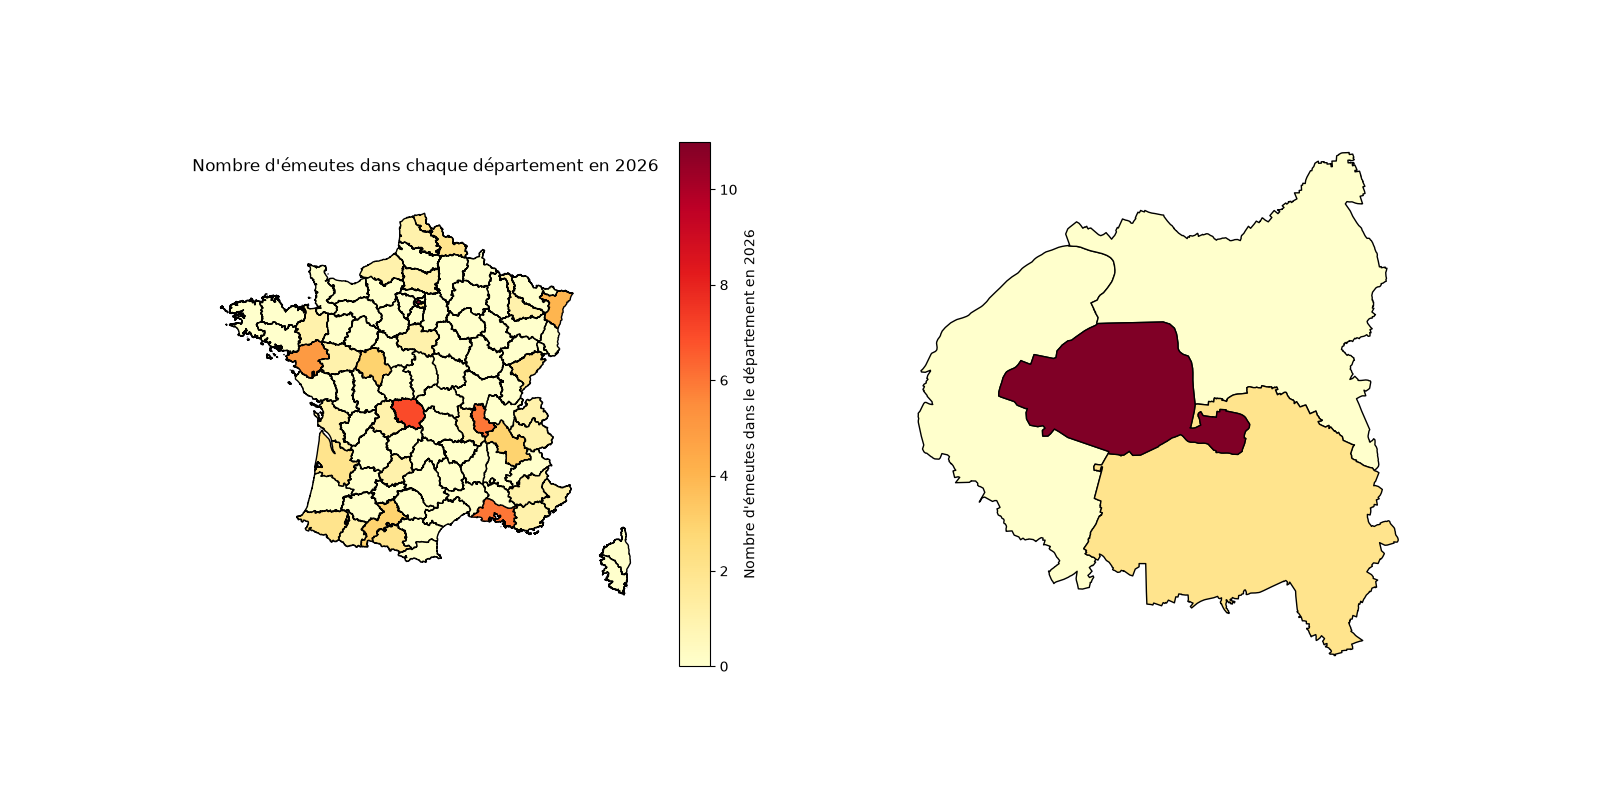
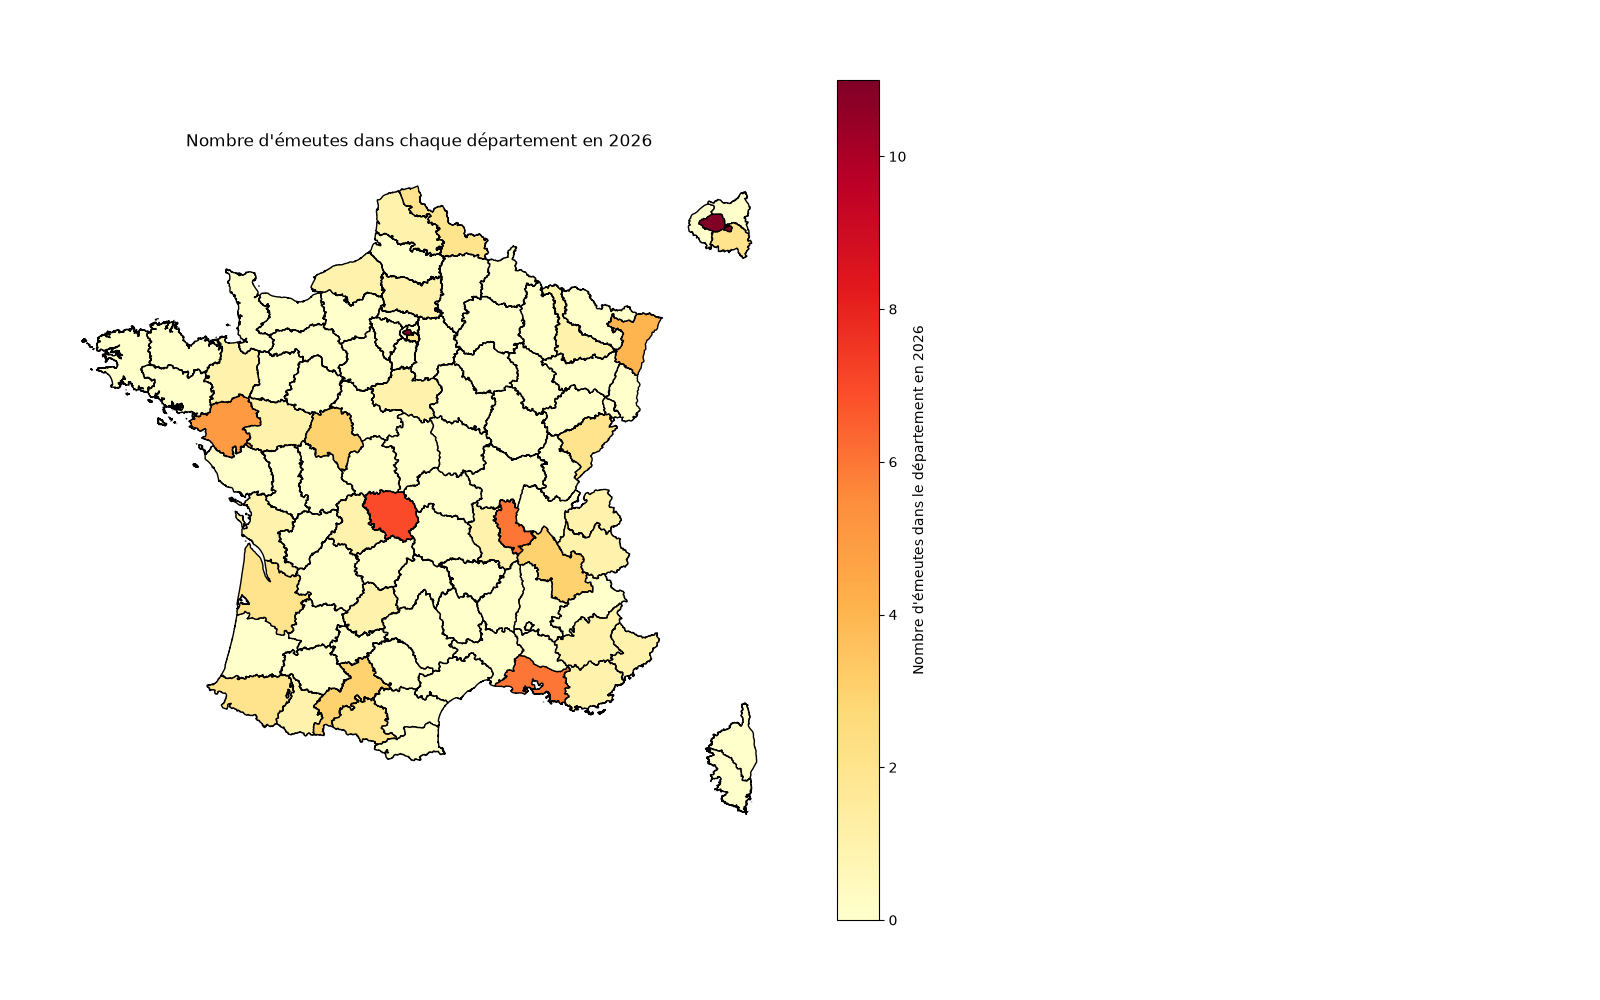
Changements pour des cartes plus jolies

Changed region(s): [[0.0625, 0.0625, 0.875, 0.9375], [0.125, 0.125, 0.4062, 0.1562]]

diff --git a/QPV_data/Départements/carte_QPV_départements.py b/QPV_data/Départements/carte_QPV_départements.py
@@ -6,7 +6,7 @@ import geopandas as gpd
 
 ## Importation des données
 
-data = pd.read_csv("/home/onyxia/Projet_Python_2A/QPV_data/Départements/Nb_QPV départements.csv", sep=";", skiprows=2, dtype={"Code" : str})
+data = pd.read_csv("/home/onyxia/Projet_Python_2A/QPV_data/Départements/part_population_QPV_département.csv", sep=";", skiprows=2, dtype={"Code" : str})
 
 ## Nettoyage des données
 
@@ -23,14 +23,30 @@ url_fond_de_carte = ("https://minio.lab.sspcloud.fr/projet-cartiflette/productio
 départements = gpd.read_file(url_fond_de_carte)
 
 départements = départements[~départements["INSEE_DEP"].str.startswith("97")]
-départements.to_crs(2154)
+départements = départements.to_crs(2154)
 
 carte = départements.merge(data, left_on="INSEE_DEP", right_on="Code", how="left")
 
-variable = "Quartiers prioritaires de la politique de la ville 2024 : Nombre de QPV sur le territoire"
+petite_couronne = carte[carte["INSEE_DEP"].isin(["75", "92", "93", "94"])]
 
-graphe = carte.plot(column=variable, cmap="YlOrRd", edgecolor="white", legend=True, legend_kwds={"label": "Nombre de QPV"})
+variable = "QPV - Quartiers prioritaires de la politique de la ville 2024 : Part de la population municipale résidant en QPV"
+
+fig = plt.figure(figsize=(16,10))
+
+ax1 = fig.add_axes([0.03, 0.08, 0.58, 0.84])
+ax2 = fig.add_axes([0.35, 0.65, 0.20, 0.25])
+
+xmin, ymin, xmax, ymax = petite_couronne.total_bounds
+ax2.set_xlim(xmin-50000, xmax+50000)
+ax2.set_ylim(ymin-50000, ymax+50000)
+
+vmin = carte[variable].min()
+vmax = carte[variable].max()
+
+graphe = carte.plot(column=variable, ax=ax1, cmap="YlOrRd", vmin=vmin, vmax=vmax, edgecolor="black", legend=True, legend_kwds={"label": "Part de la population vivant en QPV (en %)"})
+petite_couronne.plot(column=variable, ax=ax2, cmap="YlOrRd", vmin=vmin, vmax=vmax, edgecolor="black")
 graphe.set_axis_off()
-graphe.set_title("Nombre de QPV dans chaque département en 2024")
+graphe.set_title("Part de la population vivant en QPV dans chaque département en 2024")
+ax2.set_axis_off()
 plt.savefig("Carte_QPV_départements.png")
 plt.show()

diff --git a/QPV_data/Régions/carte_QPV_régions.py b/QPV_data/Régions/carte_QPV_régions.py
@@ -8,7 +8,7 @@ np.random.seed(123)
 
 ## Importation des données
 
-data = pd.read_csv("/home/onyxia/Projet_Python_2A/QPV_data/Régions/Nb_QPV_régions.csv", sep=";", skiprows=2, dtype = {"Code" : str})
+data = pd.read_csv("/home/onyxia/Projet_Python_2A/QPV_data/Régions/part_population_QPV_région.csv", sep=";", skiprows=2, dtype = {"Code" : str})
 #Mettre le code en string est utile car nous allons retirer les codes commençant par 0
 #Si on laisse en float ou int, le 0 devant le code des Outre-Mer sera retiré
 
@@ -25,19 +25,19 @@ url_fond_de_carte =  ("https://minio.lab.sspcloud.fr/projet-cartiflette/producti
                       "vectorfile_format=geojson/territory=metropole/simplification=50/raw.geojson")
 
 #Je n'arrive pas à utiliser cartiflette donc je fais avec geopandas
-regions=gpd.read_file(url_fond_de_carte)
-regions.to_crs(2154) #On reprojette sur du Lambert 93, comme d'habitude
+regions = gpd.read_file(url_fond_de_carte)
+regions = regions.to_crs(2154) #On reprojette sur du Lambert 93, comme d'habitude
 regions = regions[~(regions["INSEE_REG"]<10)] #On retire les Outre-Mer
 regions["INSEE_REG"] = regions["INSEE_REG"].astype(str) #On passe les codes en str pour la jointure
 
 carte = regions.merge(data, left_on="INSEE_REG", right_on="Code", how="left")
 
-variable = "Quartiers prioritaires de la politique de la ville 2024 : Nombre de QPV sur le territoire" 
+variable = "QPV - Quartiers prioritaires de la politique de la ville 2024 : Part de la population municipale résidant en QPV" 
 
 #Et on finit par la carte
-graphe = carte.plot(column=variable, cmap="YlOrRd", edgecolor="white", legend=True, legend_kwds={"label" : "Nombre de QPV en 2024"})
+graphe = carte.plot(column=variable, cmap="YlOrRd", edgecolor="white", legend=True, legend_kwds={"label" : "Part de la population vivant en QPV en 2024"})
 graphe.set_axis_off()
-graphe.set_title("Nombre de QPV en 2024 par région")
+graphe.set_title("Part de la population vivant en QPV en 2024 par région")
 plt.savefig("carte_QPV_régions")
 plt.show()
 

diff --git a/inactivité_data/Régions/carte_inactivité_régions.py b/inactivité_data/Régions/carte_inactivité_régions.py
@@ -31,7 +31,7 @@ url_fond_de_carte =  ("https://minio.lab.sspcloud.fr/projet-cartiflette/producti
 #Je n'arrive pas à utiliser cartiflette, donc je vais l'ouvrir avec geopandas
 regions = gpd.read_file(url_fond_de_carte)
 regions = regions[~(regions["INSEE_REG"]<10)]
-regions.to_crs(2154) #On projette sur du Lambert 93, comme préconisé dans le cours
+regions = regions.to_crs(2154) #On projette sur du Lambert 93, comme préconisé dans le cours
 
 regions["INSEE_REG"] = regions["INSEE_REG"].astype(str) 
 #On passe le code INSEE des régions en string. Pour la jointure, c'est mieux...
@@ -41,7 +41,7 @@ carte = regions.merge(data, left_on="INSEE_REG", right_on="Code", how="left")
 variable = "Taux d'inactivité chez les 15-24 ans 2023"
 
 #On peut maintenanat faire la carte
-graphe = carte.plot(column=variable, cmap="YlOrRd", edgecolor="white", legend=True, legend_kwds={"label": "Taux d'inactivité chez les 15-24 ans en 2023 (en %)"})
+graphe = carte.plot(column=variable, cmap="YlOrRd", edgecolor="black", legend=True, legend_kwds={"label": "Taux d'inactivité chez les 15-24 ans en 2023 (en %)"})
 graphe.set_axis_off()
 graphe.set_title("Taux d'inactivité chez les 15-24 ans par région")
 plt.savefig("carte_inactivité_régions.png")

diff --git a/inactivité_data/Départements/carte_inactivité_départements.py b/inactivité_data/Départements/carte_inactivité_départements.py
@@ -37,10 +37,26 @@ departements = departements.to_crs(2154) #On passe en projection Lambert 93
 
 carte = departements.merge(data, left_on="INSEE_DEP", right_on="Code", how="left")
 
+petite_couronne = carte[carte["INSEE_DEP"].isin(["75", "92", "93", "94"])]
+
 var = "Taux d'inactivité chez les jeunes"
 
-graphe = carte.plot(column=var, cmap="YlOrRd", edgecolor="white", legend=True, legend_kwds={"label":"Taux d'inactivité chez les 15-24 ans en 2023 (en %)"})
+vmin = carte[var].min()
+vmax = carte[var].max()
+
+fig = plt.figure(figsize=(16,10))
+
+ax1 = fig.add_axes([0.03, 0.08, 0.58, 0.84])
+ax2 = fig.add_axes([0.35, 0.65, 0.20, 0.25])
+
+xmin, ymin, xmax, ymax = petite_couronne.total_bounds
+ax2.set_xlim(xmin-50000, xmax+50000)
+ax2.set_ylim(ymin-50000, ymax+50000)
+
+graphe = carte.plot(column=var, ax=ax1, cmap="YlOrRd", vmin=vmin, vmax=vmax, edgecolor="black", legend=True, legend_kwds={"label":"Taux d'inactivité chez les 15-24 ans en 2023 (en %)"})
 graphe.set_axis_off()
 graphe.set_title("Taux d'inactivité chez les 15-24 ans par département")
+petite_couronne.plot(column=var, ax=ax2, cmap="YlOrRd", vmin=vmin, vmax=vmax, edgecolor="black" )
+ax2.set_axis_off()
 plt.savefig("carte_inactivite_départements.png")
 plt.show()
